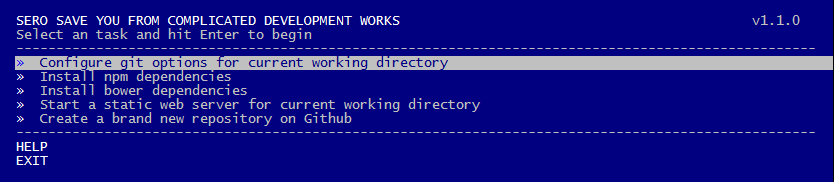
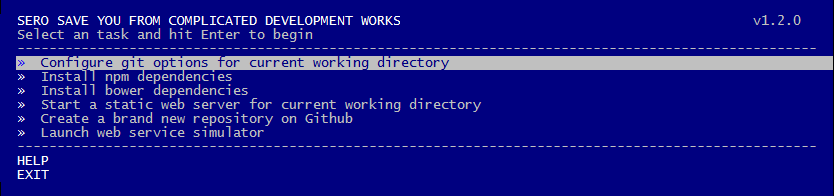
new simulator task added

Changed region(s): [[0.0, 0.0549, 1.0, 0.9341], [0.9041, 0.0824, 0.9664, 0.1374]]

diff --git a/bin/tasks/webservicesimulator/Task.js b/bin/tasks/webservicesimulator/Task.js
@@ -1,0 +1,55 @@
+var fs = require('fs');
+var path = require('path');
+var inquirer = require('inquirer');
+var _ = require('lodash');
+var Simulator = require('webservice-simulator');
+var TaskRunner = require('terminal-task-runner');
+var Base = TaskRunner.Base;
+var logger = TaskRunner.logger;
+
+var isInt = function(val) {
+    return !isNaN(parseInt(val));
+};
+
+var Task = Base.extend({
+    id: 'WebServiceSimulator',
+    name: 'Launch web service simulator',
+    position: 6,
+    run: function(cons) {
+        var _this = this;
+
+        inquirer.prompt([{
+                type: 'input',
+                name: 'port',
+                message: 'Port the simualtor would listen on',
+                default: _this.get('simulatorPort', 3000),
+                validate: function(pass) {
+                    return isInt(pass);
+                }
+            }, {
+                type: 'input',
+                name: 'routerDir',
+                message: 'Specify the routerDir',
+                default: _this.get('simulatorRouterDir', './routers'),
+                validate: function(pass) {
+                    return fs.existsSync(path.resolve('.', pass)) ? true : 'routerDir must exist';
+                }
+            }], function(answer) {
+
+            _this.put({
+                simulatorPort: answer.port,
+                simulatorRouterDir: answer.routerDir
+            });
+            new Simulator({
+                    port: answer.port,
+                    routerDir: path.resolve('.', answer.routerDir)
+                }).start();
+
+
+        });
+
+    }
+});
+
+
+module.exports = Task;

diff --git a/README.md b/README.md
@@ -1,7 +1,7 @@
 Sero-cli
 =========
 
-![](http://img.shields.io/badge/npm_module-v1.1.0-green.svg?style=flat)  ![](http://img.shields.io/badge/dependencies-latest-yellowgreen.svg?style=flat)
+![](http://img.shields.io/badge/npm_module-v1.2.0-green.svg?style=flat)  ![](http://img.shields.io/badge/dependencies-latest-yellowgreen.svg?style=flat)
 ![](http://img.shields.io/badge/build-passing-brightgreen.svg?style=flat)
 
 > The web application development toolkit
@@ -39,6 +39,7 @@ sero
 - [Install bower dependencies](./docs/task_installbower.md)
 - [Start a static web server for current working directory](./docs/task_startwebserver.md)
 - [Create a brand new repository on Github](./docs/task_createrepo.md)
+- [Launch web service simulator](./docs/task_startwebservicesimulator.md)
 
 ## LICENSE ##
 

diff --git a/docs/task_startwebservicesimulator.md b/docs/task_startwebservicesimulator.md
@@ -1,0 +1,14 @@
+### Launch web service simulator ###
+
+#### Prerequisites ####
+
+- Create `routerDir` directory at wherever you like
+- [Create mock api](https://github.com/leftstick/webservice-simulator/blob/master/docs/how_to_write_route_config.md)
+
+- Move to the sibling folder as created `routerDir`
+- type `sero` to start `sero` terminal UI
+- Choose the six task `Launch web service simulator`
+- Do what `sero` ask you to do
+- Cool! you made it
+
+> `port` and `routerDir` will be remembered by `sero` for next time use
